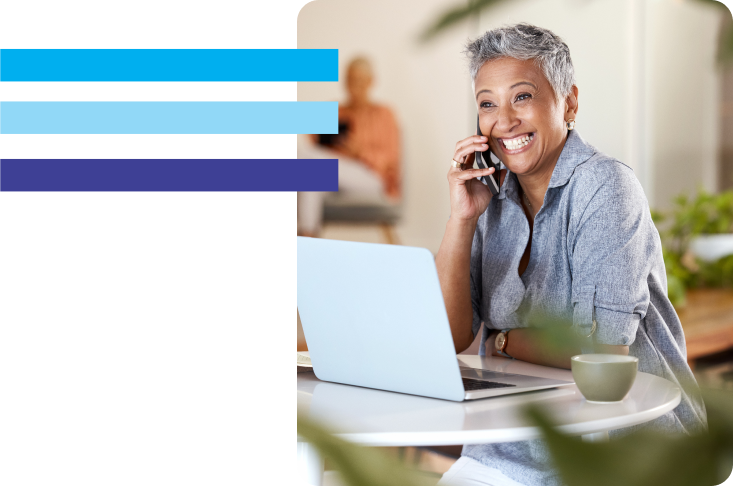
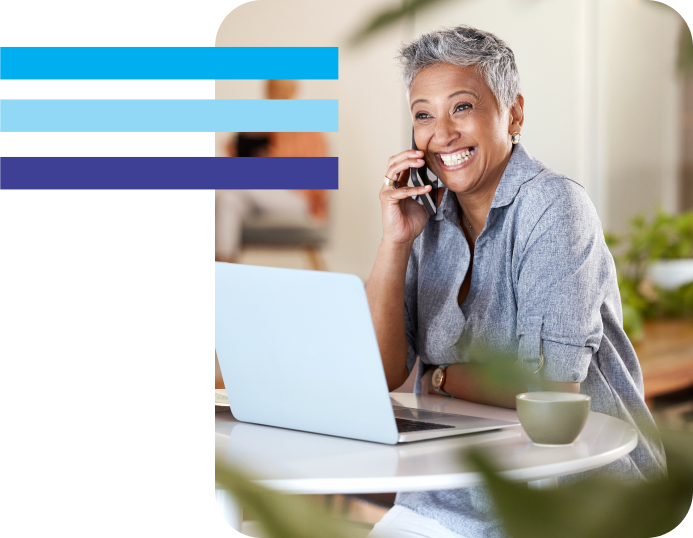
Inputs in page

diff --git a/assets/css/style.css b/assets/css/style.css
@@ -33,32 +33,21 @@ header .logo {
   width: 180px;
 }
 
-/* h2,
-h1,
-.posts .swiper-slide h3,
-.posts .post-info span,
-.posts .post-info {
+section {
+  border-color:transparent;
+}
+/* 
+h2,
+h1 { 
   color: var(--text-color) !important;
-} */
-
-
-.btn_whats {
-  position: fixed;
-  bottom: 5%;
-  right: 5%;
-  background: green;
-  padding: 20px;
-  border-radius: 30px;
-  color: #fff;
-  cursor: pointer;
-  z-index: 2;
-}
-
-.shadow-csc {
-  box-shadow: 0 1px 3px 0 var(--shadow-color), 0 1px 2px -1px var(--shadow-color);
-}
+} 
+*/
 
 
 @media (min-width: 769px) {}
 
-@media (max-width: 768px) {}
+@media (max-width: 768px) {
+  .header-img img {
+    position: absolute;
+  }
+}

diff --git a/cadastre_se.php b/cadastre_se.php
@@ -1,0 +1,132 @@
+<?php
+require "db_config.php";
+require "config/helper.php";
+require "config/url.class.php";
+?>
+<!DOCTYPE html>
+<html lang="pt-br">
+
+<head>
+  <?php include "components/heads.php"; ?>
+  <link rel="stylesheet" href="https://cdn.jsdelivr.net/npm/swiper/swiper-bundle.min.css" />
+  <link rel="stylesheet" href="./assets/css/swiper.css">
+</head>
+
+<body>
+  <?php include "components/navbar_white.php" ?>
+
+  <div class="md:my-4 mb-4 flex justify-center space-x-2">
+    <div class="">
+      Seja bem vindo
+    </div>
+  </div>
+  <form action="" method="POST">
+    <div>
+      <label class="text-sm font-bold uppercase text-blue-apcef">
+        Nome Completo*
+      </label>
+      <input type="text" name="nome" class="mt-1 mb-2 w-full rounded border-2 border-slate-200 p-2 focus:border-slate-600 focus:outline-none" required />
+    </div>
+    <div>
+      <label class="text-sm font-bold uppercase text-blue-apcef">
+        Endereço*
+      </label>
+      <input type="text" name="cpf" class="mt-1 mb-2 w-full rounded border-2 border-slate-200 p-2 focus:border-slate-600 focus:outline-none" required />
+    </div>
+    <div>
+      <label class="text-sm font-bold uppercase text-blue-apcef">
+        Email*
+      </label>
+      <input type="text" name="cpf" class="mt-1 mb-2 w-full rounded border-2 border-slate-200 p-2 focus:border-slate-600 focus:outline-none" required />
+    </div>
+    <div>
+      <label class="text-sm font-bold uppercase text-blue-apcef">
+        Telefone*
+      </label>
+      <input type="text" name="cpf" class="mt-1 mb-2 w-full rounded border-2 border-slate-200 p-2 focus:border-slate-600 focus:outline-none" required />
+    </div>
+    <div>
+      <label class="text-sm font-bold uppercase text-blue-apcef">
+        Cidade*
+      </label>
+      <select name="categoria" class="mt-1 mb-2 w-full rounded border-2 border-slate-200 p-2 focus:border-slate-600 focus:outline-none" required>
+        <option value="X">
+
+        </option>
+      </select>
+    </div>
+    <div>
+      <label class="text-sm font-bold uppercase text-blue-apcef">
+        Profissão*
+      </label>
+      <select name="categoria" class="mt-1 mb-2 w-full rounded border-2 border-slate-200 p-2 focus:border-slate-600 focus:outline-none" required>
+        <option value="X">
+
+        </option>
+      </select>
+    </div>
+    <h2 class="font-semibold md:text-left text-center py-2">Aceito receber notificações e ofertas por: </h2>
+    <br>
+    <input value="ok" name="termo1" class="mx-1" type="checkbox" required /> Email
+    <br>
+    <input value="ok" name="termo2" class="mx-1" type="checkbox" required /> WhatsApp
+    <br>
+    <input name="btnsave" type="submit" class="my-4 cursor-pointer rounded bg-color1 py-3 px-6 font-medium  text-white duration-300 ease-in-out hover:bg-blue-apcef" value="Finalizar Cadastro" />
+  </form>
+  <footer class="bg-white">
+    <div class="max-w-screen-xl p-4 py-6 mx-auto lg:py-16 md:p-8 lg:p-10">
+      <div class="text-center">
+        <a href="#" class="flex items-center justify-center mb-5 text-2xl font-semibold text-gray-900">
+          <img src="./images/logo.svg" class="h-6 mr-3 sm:h-9" alt="Landwind Logo" />
+          Landwind
+        </a>
+        <span class="block text-sm text-center text-gray-500">© 2021-2022 Landwind™. All Rights
+          Reserved. Built with <a href="https://flowbite.com" class="text-purple-600 hover:underline">Flowbite</a> and <a href="https://tailwindcss.com" class="text-purple-600 hover:underline">Tailwind
+            CSS</a>. Distributed by <a href="https://themewagon.com/" class="text-purple-600 hover:underline">ThemeWagon</a>
+        </span>
+        <ul class="flex justify-center mt-5 space-x-5">
+          <li>
+            <a href="#" class="text-gray-500 hover:text-gray-900">
+              <svg class="w-5 h-5" fill="currentColor" viewBox="0 0 24 24" aria-hidden="true">
+                <path fill-rule="evenodd" d="M22 12c0-5.523-4.477-10-10-10S2 6.477 2 12c0 4.991 3.657 9.128 8.438 9.878v-6.987h-2.54V12h2.54V9.797c0-2.506 1.492-3.89 3.777-3.89 1.094 0 2.238.195 2.238.195v2.46h-1.26c-1.243 0-1.63.771-1.63 1.562V12h2.773l-.443 2.89h-2.33v6.988C18.343 21.128 22 16.991 22 12z" clip-rule="evenodd" />
+              </svg>
+            </a>
+          </li>
+          <li>
+            <a href="#" class="text-gray-500 hover:text-gray-900">
+              <svg class="w-5 h-5" fill="currentColor" viewBox="0 0 24 24" aria-hidden="true">
+                <path fill-rule="evenodd" d="M12.315 2c2.43 0 2.784.013 3.808.06 1.064.049 1.791.218 2.427.465a4.902 4.902 0 011.772 1.153 4.902 4.902 0 011.153 1.772c.247.636.416 1.363.465 2.427.048 1.067.06 1.407.06 4.123v.08c0 2.643-.012 2.987-.06 4.043-.049 1.064-.218 1.791-.465 2.427a4.902 4.902 0 01-1.153 1.772 4.902 4.902 0 01-1.772 1.153c-.636.247-1.363.416-2.427.465-1.067.048-1.407.06-4.123.06h-.08c-2.643 0-2.987-.012-4.043-.06-1.064-.049-1.791-.218-2.427-.465a4.902 4.902 0 01-1.772-1.153 4.902 4.902 0 01-1.153-1.772c-.247-.636-.416-1.363-.465-2.427-.047-1.024-.06-1.379-.06-3.808v-.63c0-2.43.013-2.784.06-3.808.049-1.064.218-1.791.465-2.427a4.902 4.902 0 011.153-1.772A4.902 4.902 0 015.45 2.525c.636-.247 1.363-.416 2.427-.465C8.901 2.013 9.256 2 11.685 2h.63zm-.081 1.802h-.468c-2.456 0-2.784.011-3.807.058-.975.045-1.504.207-1.857.344-.467.182-.8.398-1.15.748-.35.35-.566.683-.748 1.15-.137.353-.3.882-.344 1.857-.047 1.023-.058 1.351-.058 3.807v.468c0 2.456.011 2.784.058 3.807.045.975.207 1.504.344 1.857.182.466.399.8.748 1.15.35.35.683.566 1.15.748.353.137.882.3 1.857.344 1.054.048 1.37.058 4.041.058h.08c2.597 0 2.917-.01 3.96-.058.976-.045 1.505-.207 1.858-.344.466-.182.8-.398 1.15-.748.35-.35.566-.683.748-1.15.137-.353.3-.882.344-1.857.048-1.055.058-1.37.058-4.041v-.08c0-2.597-.01-2.917-.058-3.96-.045-.976-.207-1.505-.344-1.858a3.097 3.097 0 00-.748-1.15 3.098 3.098 0 00-1.15-.748c-.353-.137-.882-.3-1.857-.344-1.023-.047-1.351-.058-3.807-.058zM12 6.865a5.135 5.135 0 110 10.27 5.135 5.135 0 010-10.27zm0 1.802a3.333 3.333 0 100 6.666 3.333 3.333 0 000-6.666zm5.338-3.205a1.2 1.2 0 110 2.4 1.2 1.2 0 010-2.4z" clip-rule="evenodd" />
+              </svg>
+            </a>
+          </li>
+          <li>
+            <a href="#" class="text-gray-500 hover:text-gray-900">
+              <svg class="w-5 h-5" fill="currentColor" viewBox="0 0 24 24" aria-hidden="true">
+                <path d="M8.29 20.251c7.547 0 11.675-6.253 11.675-11.675 0-.178 0-.355-.012-.53A8.348 8.348 0 0022 5.92a8.19 8.19 0 01-2.357.646 4.118 4.118 0 001.804-2.27 8.224 8.224 0 01-2.605.996 4.107 4.107 0 00-6.993 3.743 11.65 11.65 0 01-8.457-4.287 4.106 4.106 0 001.27 5.477A4.072 4.072 0 012.8 9.713v.052a4.105 4.105 0 003.292 4.022 4.095 4.095 0 01-1.853.07 4.108 4.108 0 003.834 2.85A8.233 8.233 0 012 18.407a11.616 11.616 0 006.29 1.84" />
+              </svg>
+            </a>
+          </li>
+          <li>
+            <a href="#" class="text-gray-500 hover:text-gray-900">
+              <svg class="w-5 h-5" fill="currentColor" viewBox="0 0 24 24" aria-hidden="true">
+                <path fill-rule="evenodd" d="M12 2C6.477 2 2 6.484 2 12.017c0 4.425 2.865 8.18 6.839 9.504.5.092.682-.217.682-.483 0-.237-.008-.868-.013-1.703-2.782.605-3.369-1.343-3.369-1.343-.454-1.158-1.11-1.466-1.11-1.466-.908-.62.069-.608.069-.608 1.003.07 1.531 1.032 1.531 1.032.892 1.53 2.341 1.088 2.91.832.092-.647.35-1.088.636-1.338-2.22-.253-4.555-1.113-4.555-4.951 0-1.093.39-1.988 1.029-2.688-.103-.253-.446-1.272.098-2.65 0 0 .84-.27 2.75 1.026A9.564 9.564 0 0112 6.844c.85.004 1.705.115 2.504.337 1.909-1.296 2.747-1.027 2.747-1.027.546 1.379.202 2.398.1 2.651.64.7 1.028 1.595 1.028 2.688 0 3.848-2.339 4.695-4.566 4.943.359.309.678.92.678 1.855 0 1.338-.012 2.419-.012 2.747 0 .268.18.58.688.482A10.019 10.019 0 0022 12.017C22 6.484 17.522 2 12 2z" clip-rule="evenodd" />
+              </svg>
+            </a>
+          </li>
+          <li>
+            <a href="#" class="text-gray-500 hover:text-gray-900">
+              <svg class="w-5 h-5" fill="currentColor" viewBox="0 0 24 24" aria-hidden="true">
+                <path fill-rule="evenodd" d="M12 2C6.48 2 2 6.48 2 12s4.48 10 10 10c5.51 0 10-4.48 10-10S17.51 2 12 2zm6.605 4.61a8.502 8.502 0 011.93 5.314c-.281-.054-3.101-.629-5.943-.271-.065-.141-.12-.293-.184-.445a25.416 25.416 0 00-.564-1.236c3.145-1.28 4.577-3.124 4.761-3.362zM12 3.475c2.17 0 4.154.813 5.662 2.148-.152.216-1.443 1.941-4.48 3.08-1.399-2.57-2.95-4.675-3.189-5A8.687 8.687 0 0112 3.475zm-3.633.803a53.896 53.896 0 013.167 4.935c-3.992 1.063-7.517 1.04-7.896 1.04a8.581 8.581 0 014.729-5.975zM3.453 12.01v-.26c.37.01 4.512.065 8.775-1.215.25.477.477.965.694 1.453-.109.033-.228.065-.336.098-4.404 1.42-6.747 5.303-6.942 5.629a8.522 8.522 0 01-2.19-5.705zM12 20.547a8.482 8.482 0 01-5.239-1.8c.152-.315 1.888-3.656 6.703-5.337.022-.01.033-.01.054-.022a35.318 35.318 0 011.823 6.475 8.4 8.4 0 01-3.341.684zm4.761-1.465c-.086-.52-.542-3.015-1.659-6.084 2.679-.423 5.022.271 5.314.369a8.468 8.468 0 01-3.655 5.715z" clip-rule="evenodd" />
+              </svg>
+            </a>
+          </li>
+        </ul>
+      </div>
+    </div>
+  </footer>
+  <script src="./assets/js/script.js"></script>
+  <script src="https://unpkg.com/flowbite@1.4.1/dist/flowbite.js"></script>
+  <script src="https://cdn.jsdelivr.net/npm/swiper/swiper-bundle.min.js"></script>
+</body>
+
+</html>

diff --git a/home.php b/home.php
@@ -13,12 +13,9 @@ require "config/url.class.php";
 </head>
 
 <body>
-	<?php include "components/navbar.php" ?>
-
-	<!-- partial -->
-	<!-- Start block -->
 	<section class="bg-color1">
-		<div class="grid max-w-screen-xl px-4 pt-20 pb-8 mx-auto lg:gap-8 xl:gap-0 lg:py-6 lg:grid-cols-12 lg:pt-20">
+		<?php include "components/navbar.php" ?>
+		<div class="grid max-w-screen-xl px-4 lg:pt-20  pt-10 pb-8 mx-auto lg:gap-8 xl:gap-0 lg:py-6 lg:grid-cols-12 lg:pt-20">
 			<div class="mr-auto place-self-center lg:col-span-7">
 				<h1 class="text-white max-w-2xl mb-4 text-4xl font-bold leading-none tracking-tight md:text-5xl xl:text-6xl">
 					Tudo o que você precisa para sua pintura perfeita
@@ -28,17 +25,17 @@ require "config/url.class.php";
 					sua reforma com melhores preços, garantia, segurança e no conforto da sua casa.
 				</p>
 				<div class="space-y-4 sm:flex sm:space-y-0 sm:space-x-4">
-					<a href="#" class="inline-flex items-center justify-center w-full px-5 py-4 mb-2 text-sm font-medium text-white bg-blue-600 rounded-3xl sm:w-auto focus:outline-none hover:bg-gray-100 hover:text-blue-700 focus:z-10 focus:ring-4 focus:ring-gray-200">
+					<a href="cadastre-se" class="inline-flex items-center justify-center w-full px-5 py-4 mb-2 text-sm font-medium text-white bg-blue-600 rounded-3xl sm:w-auto focus:outline-none hover:bg-gray-100 hover:text-blue-700 focus:z-10 focus:ring-4 focus:ring-gray-200">
 						Cadastre Agora
 					</a>
 				</div>
 			</div>
-			<div class="hidden lg:mt-0 lg:col-span-5 lg:flex">
+			<div class="lg:mt-0 lg:col-span-5 lg:flex">
 				<img src="<?php echo $URI->base("/assets/img/toque_suave_de_lado2.png"); ?>" alt="hero image">
 			</div>
 		</div>
 	</section>
-	<section class="bg-gray-50">
+	<section>
 		<div class="max-w-screen-xl px-4 py-8 mx-auto space-y-12 lg:space-y-20 lg:py-24 lg:px-6">
 			<!-- Row -->
 			<div class="items-center gap-8 lg:grid lg:grid-cols-2 xl:gap-16">
@@ -107,8 +104,7 @@ require "config/url.class.php";
 			</div>
 			<div class="items-center gap-8 lg:grid lg:grid-cols-2 xl:gap-16">
 				<div class="text-gray-500 sm:text-lg">
-					<h2 class="mb-4 text-3xl font-extrabold tracking-tight text-gray-900">We invest in the world’s
-						potential</h2>
+					<h2 class="mb-4 text-3xl font-extrabold tracking-tight text-gray-900">Planeje, administre e consiga mais clientes, através do nosso match de obras.</h2>
 					<p class="mb-8 font-light lg:text-xl">Deliver great service experiences fast - without the complexity of
 						traditional ITSM solutions. Accelerate critical development work, eliminate toil, and deploy changes with
 						ease.</p>

diff --git a/components/navbar_white.php b/components/navbar_white.php
@@ -2,7 +2,7 @@
   <nav class="py-2.5">
     <div class="flex flex-wrap items-center lg:justify-between justify-center max-w-screen-xl px-4 mx-auto">
       <a href="#" class="flex items-center">
-        <img src="<?php echo $URI->base("/assets/img/logo.png"); ?>" class="h-6 mr-3 sm:h-9" alt="Pintow Logo" />
+        <img src="<?php echo $URI->base("/assets/img/logo.svg"); ?>" class="h-6 mr-3 sm:h-9" alt="Pintow Logo" />
       </a>
       <div class="flex flex-wrap justify-center items-center lg:order-2">
         <a href="#" class="text-white hover:bg-gray-50 focus:ring-4 focus:ring-gray-300 font-medium rounded-lg text-sm px-4 lg:px-5 py-2 lg:py-2.5 sm:mr-2 focus:outline-none">Participe do Pré-Lançamento faça o seu</a>
